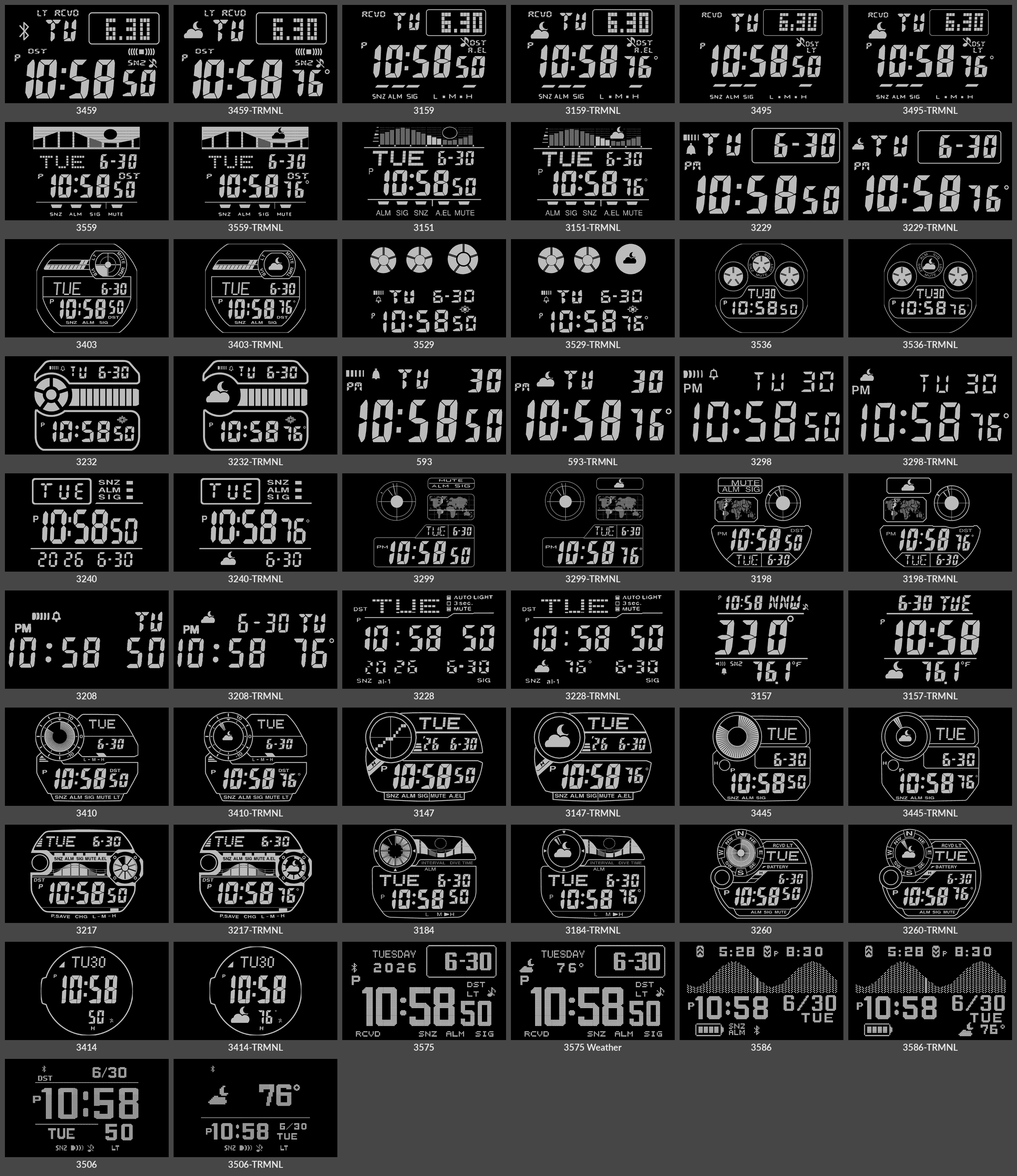
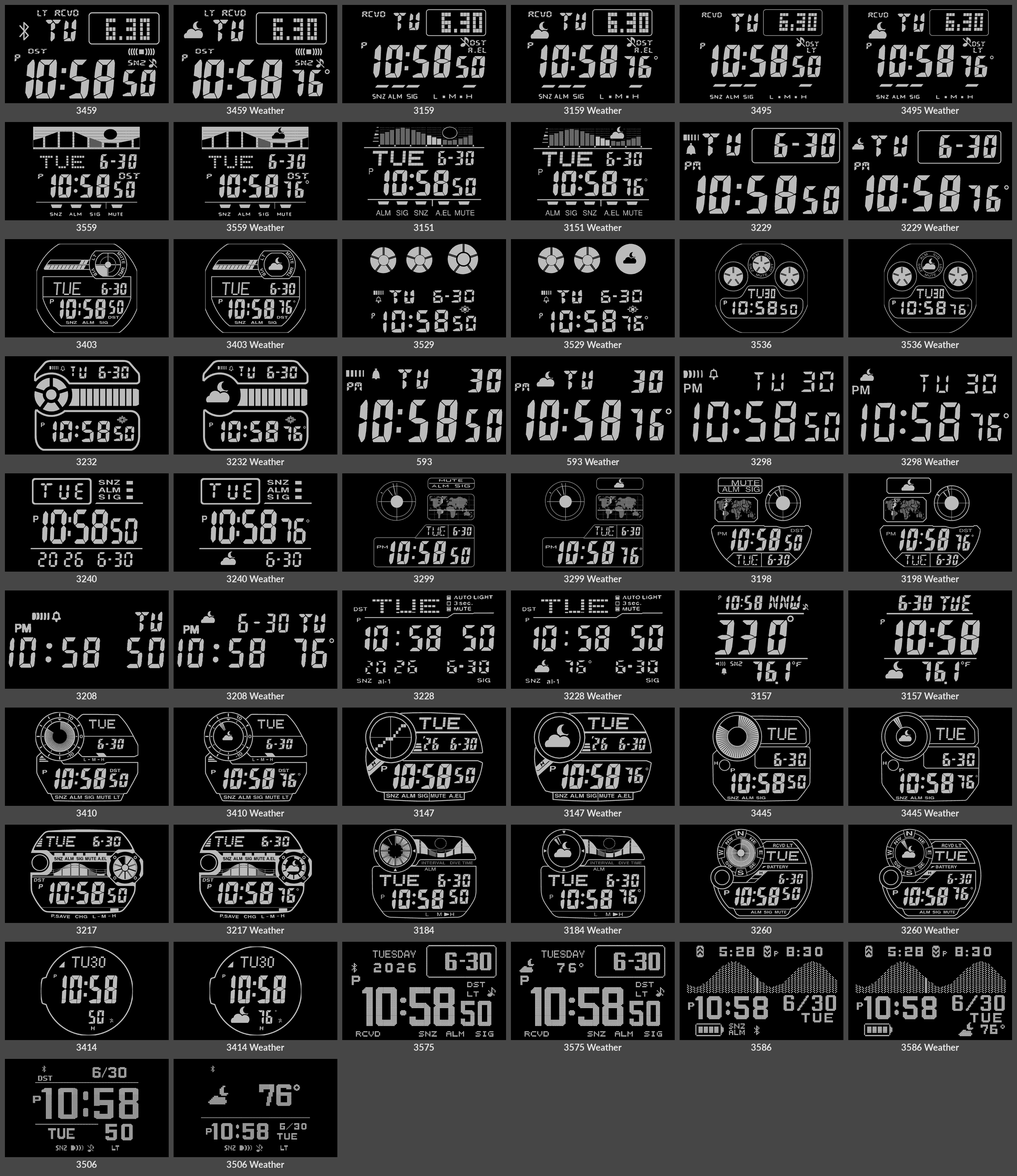
Watch faces by module, Weather as a switch
Claude-Session: https://claude.ai/code/session_01WrLPH9CSGwuJCbw1xzJHza

diff --git a/index.html b/index.html
@@ -34,11 +34,11 @@ small { display: block; color: var(--muted); }
 <main>
 <h1>LCD Watch</h1>
 <p>Every face of the LCD Watch plugin for TRMNL, by its name in the Watch Face setting. Fully digital watches only,
-no analog-digital ones. Switch Weather on to see each watch's
-weather face (TRMNL), which adds the weather in the watch's own style.</p>
+no analog-digital ones. Switch Weather on to see each watch with the plugin's Weather setting on: the weather in
+the watch's own style.</p>
 <figure class="sheet" data-lcd="all-faces.png" data-inv="all-faces-inverted.png"><img class="all" src="all-faces.png" alt="Every LCD Watch face" width="2484" height="2872"></figure>
 <div class="switches"><div class="toggle" role="group" aria-label="Display"><button type="button" data-key="display" data-value="lcd">LCD</button><button type="button" data-key="display" data-value="inv">Inverted</button></div><div class="toggle" role="group" aria-label="Weather"><button type="button" data-key="weather" data-value="off">No weather</button><button type="button" data-key="weather" data-value="on">Weather</button></div></div>
-<div class="grid"><figure data-lcd="screens/watch-3459.png" data-inv="screens/watch-3459-inverted.png" data-label="3459 · Modern square (2018)" data-wlcd="screens/watch-3459-TRMNL.png" data-winv="screens/watch-3459-TRMNL-inverted.png" data-wlabel="3459-TRMNL · Modern square with weather"><img src="screens/watch-3459.png" alt="3459 · Modern square (2018)" loading="lazy" width="400" height="240"><figcaption><span class="label">3459 · Modern square (2018)</span></figcaption></figure><figure data-lcd="screens/watch-3159.png" data-inv="screens/watch-3159-inverted.png" data-label="3159 · Solar square (2012)" data-wlcd="screens/watch-3159-TRMNL.png" data-winv="screens/watch-3159-TRMNL-inverted.png" data-wlabel="3159-TRMNL · Solar square with weather"><img src="screens/watch-3159.png" alt="3159 · Solar square (2012)" loading="lazy" width="400" height="240"><figcaption><span class="label">3159 · Solar square (2012)</span></figcaption></figure><figure data-lcd="screens/watch-3495.png" data-inv="screens/watch-3495-inverted.png" data-label="3495 · Solar square, six languages (2021)" data-wlcd="screens/watch-3495-TRMNL.png" data-winv="screens/watch-3495-TRMNL-inverted.png" data-wlabel="3495-TRMNL · Solar square, six languages, with weather"><img src="screens/watch-3495.png" alt="3495 · Solar square, six languages (2021)" loading="lazy" width="400" height="240"><figcaption><span class="label">3495 · Solar square, six languages (2021)</span></figcaption></figure><figure data-lcd="screens/watch-3559.png" data-inv="screens/watch-3559-inverted.png" data-label="3559 · Surf, tide and moon (2023)" data-wlcd="screens/watch-3559-TRMNL.png" data-winv="screens/watch-3559-TRMNL-inverted.png" data-wlabel="3559-TRMNL · Surf, tide and weather"><img src="screens/watch-3559.png" alt="3559 · Surf, tide and moon (2023)" loading="lazy" width="400" height="240"><figcaption><span class="label">3559 · Surf, tide and moon (2023)</span></figcaption></figure><figure data-lcd="screens/watch-3151.png" data-inv="screens/watch-3151-inverted.png" data-label="3151 · Surf, tide graph and Moon (2008)" data-wlcd="screens/watch-3151-TRMNL.png" data-winv="screens/watch-3151-TRMNL-inverted.png" data-wlabel="3151-TRMNL · Surf, tide graph and weather"><img src="screens/watch-3151.png" alt="3151 · Surf, tide graph and Moon (2008)" loading="lazy" width="400" height="240"><figcaption><span class="label">3151 · Surf, tide graph and Moon (2008)</span></figcaption></figure><figure data-lcd="screens/watch-3229.png" data-inv="screens/watch-3229-inverted.png" data-label="3229 · Classic square (2010)" data-wlcd="screens/watch-3229-TRMNL.png" data-winv="screens/watch-3229-TRMNL-inverted.png" data-wlabel="3229-TRMNL · Classic square with weather"><img src="screens/watch-3229.png" alt="3229 · Classic square (2010)" loading="lazy" width="400" height="240"><figcaption><span class="label">3229 · Classic square (2010)</span></figcaption></figure><figure data-lcd="screens/watch-3403.png" data-inv="screens/watch-3403-inverted.png" data-label="3403 · XL square, bar graph and dial (2012)" data-wlcd="screens/watch-3403-TRMNL.png" data-winv="screens/watch-3403-TRMNL-inverted.png" data-wlabel="3403-TRMNL · XL square with weather in the dial"><img src="screens/watch-3403.png" alt="3403 · XL square, bar graph and dial (2012)" loading="lazy" width="400" height="240"><figcaption><span class="label">3403 · XL square, bar graph and dial (2012)</span></figcaption></figure><figure data-lcd="screens/watch-3529.png" data-inv="screens/watch-3529-inverted.png" data-label="3529 · Round, three eyes (2023)" data-wlcd="screens/watch-3529-TRMNL.png" data-winv="screens/watch-3529-TRMNL-inverted.png" data-wlabel="3529-TRMNL · Round, three eyes, with weather"><img src="screens/watch-3529.png" alt="3529 · Round, three eyes (2023)" loading="lazy" width="400" height="240"><figcaption><span class="label">3529 · Round, three eyes (2023)</span></figcaption></figure><figure data-lcd="screens/watch-3536.png" data-inv="screens/watch-3536-inverted.png" data-label="3536 · Square, three eyes (2023)" data-wlcd="screens/watch-3536-TRMNL.png" data-winv="screens/watch-3536-TRMNL-inverted.png" data-wlabel="3536-TRMNL · Square, three eyes, with weather"><img src="screens/watch-3536.png" alt="3536 · Square, three eyes (2023)" loading="lazy" width="400" height="240"><figcaption><span class="label">3536 · Square, three eyes (2023)</span></figcaption></figure><figure data-lcd="screens/watch-3232.png" data-inv="screens/watch-3232-inverted.png" data-label="3232 · Round, eye and bar graph (2010)" data-wlcd="screens/watch-3232-TRMNL.png" data-winv="screens/watch-3232-TRMNL-inverted.png" data-wlabel="3232-TRMNL · Round, eye and bar graph, with weather"><img src="screens/watch-3232.png" alt="3232 · Round, eye and bar graph (2010)" loading="lazy" width="400" height="240"><figcaption><span class="label">3232 · Round, eye and bar graph (2010)</span></figcaption></figure><figure data-lcd="screens/watch-593.png" data-inv="screens/watch-593-inverted.png" data-label="593 · Slim retro (1989)" data-wlcd="screens/watch-593-TRMNL.png" data-winv="screens/watch-593-TRMNL-inverted.png" data-wlabel="593-TRMNL · Slim retro with weather"><img src="screens/watch-593.png" alt="593 · Slim retro (1989)" loading="lazy" width="400" height="240"><figcaption><span class="label">593 · Slim retro (1989)</span></figcaption></figure><figure data-lcd="screens/watch-3298.png" data-inv="screens/watch-3298-inverted.png" data-label="3298 · Retro steel square (2012)" data-wlcd="screens/watch-3298-TRMNL.png" data-winv="screens/watch-3298-TRMNL-inverted.png" data-wlabel="3298-TRMNL · Retro steel square with weather"><img src="screens/watch-3298.png" alt="3298 · Retro steel square (2012)" loading="lazy" width="400" height="240"><figcaption><span class="label">3298 · Retro steel square (2012)</span></figcaption></figure><figure data-lcd="screens/watch-3240.png" data-inv="screens/watch-3240-inverted.png" data-label="3240 · Sport square, 10-year battery (2011)" data-wlcd="screens/watch-3240-TRMNL.png" data-winv="screens/watch-3240-TRMNL-inverted.png" data-wlabel="3240-TRMNL · Sport square with weather"><img src="screens/watch-3240.png" alt="3240 · Sport square, 10-year battery (2011)" loading="lazy" width="400" height="240"><figcaption><span class="label">3240 · Sport square, 10-year battery (2011)</span></figcaption></figure><figure data-lcd="screens/watch-3299.png" data-inv="screens/watch-3299-inverted.png" data-label="3299 · World time with map (2012)" data-wlcd="screens/watch-3299-TRMNL.png" data-winv="screens/watch-3299-TRMNL-inverted.png" data-wlabel="3299-TRMNL · World time with map and weather"><img src="screens/watch-3299.png" alt="3299 · World time with map (2012)" loading="lazy" width="400" height="240"><figcaption><span class="label">3299 · World time with map (2012)</span></figcaption></figure><figure data-lcd="screens/watch-3198.png" data-inv="screens/watch-3198-inverted.png" data-label="3198 · World time with map, round (2012)" data-wlcd="screens/watch-3198-TRMNL.png" data-winv="screens/watch-3198-TRMNL-inverted.png" data-wlabel="3198-TRMNL · World time with map, round, with weather"><img src="screens/watch-3198.png" alt="3198 · World time with map, round (2012)" loading="lazy" width="400" height="240"><figcaption><span class="label">3198 · World time with map, round (2012)</span></figcaption></figure><figure data-lcd="screens/watch-3208.png" data-inv="screens/watch-3208-inverted.png" data-label="3208 · Calculator (1988)" data-wlcd="screens/watch-3208-TRMNL.png" data-winv="screens/watch-3208-TRMNL-inverted.png" data-wlabel="3208-TRMNL · Calculator with weather"><img src="screens/watch-3208.png" alt="3208 · Calculator (1988)" loading="lazy" width="400" height="240"><figcaption><span class="label">3208 · Calculator (1988)</span></figcaption></figure><figure data-lcd="screens/watch-3228.png" data-inv="screens/watch-3228-inverted.png" data-label="3228 · Databank calculator (2005)" data-wlcd="screens/watch-3228-TRMNL.png" data-winv="screens/watch-3228-TRMNL-inverted.png" data-wlabel="3228-TRMNL · Databank calculator with weather"><img src="screens/watch-3228.png" alt="3228 · Databank calculator (2005)" loading="lazy" width="400" height="240"><figcaption><span class="label">3228 · Databank calculator (2005)</span></figcaption></figure><figure data-lcd="screens/watch-3157.png" data-inv="screens/watch-3157-inverted.png" data-label="3157 · Outdoor, compass and thermometer (2008)" data-wlcd="screens/watch-3157-TRMNL.png" data-winv="screens/watch-3157-TRMNL-inverted.png" data-wlabel="3157-TRMNL · Outdoor, date, time and weather"><img src="screens/watch-3157.png" alt="3157 · Outdoor, compass and thermometer (2008)" loading="lazy" width="400" height="240"><figcaption><span class="label">3157 · Outdoor, compass and thermometer (2008)</span></figcaption></figure><figure data-lcd="screens/watch-3410.png" data-inv="screens/watch-3410-inverted.png" data-label="3410 · Triple sensor, graphic dial (2013)" data-wlcd="screens/watch-3410-TRMNL.png" data-winv="screens/watch-3410-TRMNL-inverted.png" data-wlabel="3410-TRMNL · Triple sensor, weather in the dial"><img src="screens/watch-3410.png" alt="3410 · Triple sensor, graphic dial (2013)" loading="lazy" width="400" height="240"><figcaption><span class="label">3410 · Triple sensor, graphic dial (2013)</span></figcaption></figure><figure data-lcd="screens/watch-3147.png" data-inv="screens/watch-3147-inverted.png" data-label="3147 · Barometer, pressure graph (2008)" data-wlcd="screens/watch-3147-TRMNL.png" data-winv="screens/watch-3147-TRMNL-inverted.png" data-wlabel="3147-TRMNL · Barometer, weather in the graph window"><img src="screens/watch-3147.png" alt="3147 · Barometer, pressure graph (2008)" loading="lazy" width="400" height="240"><figcaption><span class="label">3147 · Barometer, pressure graph (2008)</span></figcaption></figure><figure data-lcd="screens/watch-3445.png" data-inv="screens/watch-3445-inverted.png" data-label="3445 · Diver, graphic dial and Moon (2016)" data-wlcd="screens/watch-3445-TRMNL.png" data-winv="screens/watch-3445-TRMNL-inverted.png" data-wlabel="3445-TRMNL · Diver, weather in the dial"><img src="screens/watch-3445.png" alt="3445 · Diver, graphic dial and Moon (2016)" loading="lazy" width="400" height="240"><figcaption><span class="label">3445 · Diver, graphic dial and Moon (2016)</span></figcaption></figure><figure data-lcd="screens/watch-3217.png" data-inv="screens/watch-3217-inverted.png" data-label="3217 · Surf, tide graph and Moon (2010)" data-wlcd="screens/watch-3217-TRMNL.png" data-winv="screens/watch-3217-TRMNL-inverted.png" data-wlabel="3217-TRMNL · Surf, tide graph and weather"><img src="screens/watch-3217.png" alt="3217 · Surf, tide graph and Moon (2010)" loading="lazy" width="400" height="240"><figcaption><span class="label">3217 · Surf, tide graph and Moon (2010)</span></figcaption></figure><figure data-lcd="screens/watch-3184.png" data-inv="screens/watch-3184-inverted.png" data-label="3184 · Diver, tide graph and Moon (2009)" data-wlcd="screens/watch-3184-TRMNL.png" data-winv="screens/watch-3184-TRMNL-inverted.png" data-wlabel="3184-TRMNL · Diver, tide graph and weather"><img src="screens/watch-3184.png" alt="3184 · Diver, tide graph and Moon (2009)" loading="lazy" width="400" height="240"><figcaption><span class="label">3184 · Diver, tide graph and Moon (2009)</span></figcaption></figure><figure data-lcd="screens/watch-3260.png" data-inv="screens/watch-3260-inverted.png" data-label="3260 · Mud-resistant square, compass bezel and Moon (2011)" data-wlcd="screens/watch-3260-TRMNL.png" data-winv="screens/watch-3260-TRMNL-inverted.png" data-wlabel="3260-TRMNL · Mud-resistant square, weather in the graphic area"><img src="screens/watch-3260.png" alt="3260 · Mud-resistant square, compass bezel and Moon (2011)" loading="lazy" width="400" height="240"><figcaption><span class="label">3260 · Mud-resistant square, compass bezel and Moon (2011)</span></figcaption></figure><figure data-lcd="screens/watch-3414.png" data-inv="screens/watch-3414-inverted.png" data-label="3414 · Triple sensor, round (2013)" data-wlcd="screens/watch-3414-TRMNL.png" data-winv="screens/watch-3414-TRMNL-inverted.png" data-wlabel="3414-TRMNL · Triple sensor, round, with weather"><img src="screens/watch-3414.png" alt="3414 · Triple sensor, round (2013)" loading="lazy" width="400" height="240"><figcaption><span class="label">3414 · Triple sensor, round (2013)</span></figcaption></figure><figure data-lcd="screens/watch-3575.png" data-inv="screens/watch-3575-inverted.png" data-label="3575 / 3578 · Dot matrix (2025)" data-wlcd="screens/type-c-weather.png" data-winv="screens/type-c-weather-inverted.png" data-wlabel="3575 / 3578 · Dot matrix (2025), Weather on"><img src="screens/watch-3575.png" alt="3575 / 3578 · Dot matrix (2025)" loading="lazy" width="400" height="240"><figcaption><span class="label">3575 / 3578 · Dot matrix (2025)</span></figcaption></figure><figure data-lcd="screens/watch-3586.png" data-inv="screens/watch-3586-inverted.png" data-label="3586 · Dot matrix, tide and sun (2026)" data-wlcd="screens/watch-3586-TRMNL.png" data-winv="screens/watch-3586-TRMNL-inverted.png" data-wlabel="3586-TRMNL · Dot matrix, tide and weather"><img src="screens/watch-3586.png" alt="3586 · Dot matrix, tide and sun (2026)" loading="lazy" width="400" height="240"><figcaption><span class="label">3586 · Dot matrix, tide and sun (2026)</span></figcaption></figure><figure data-lcd="screens/watch-3506.png" data-inv="screens/watch-3506-inverted.png" data-label="3506 · Dot matrix, sport square (2021)" data-wlcd="screens/watch-3506-TRMNL.png" data-winv="screens/watch-3506-TRMNL-inverted.png" data-wlabel="3506-TRMNL · Dot matrix, sport square with weather"><img src="screens/watch-3506.png" alt="3506 · Dot matrix, sport square (2021)" loading="lazy" width="400" height="240"><figcaption><span class="label">3506 · Dot matrix, sport square (2021)</span></figcaption></figure></div>
+<div class="grid"><figure data-lcd="screens/watch-3459.png" data-inv="screens/watch-3459-inverted.png" data-label="3459 · Modern square (2018)" data-wlcd="screens/watch-3459-TRMNL.png" data-winv="screens/watch-3459-TRMNL-inverted.png" data-wlabel="3459 · Modern square (2018), Weather on"><img src="screens/watch-3459.png" alt="3459 · Modern square (2018)" loading="lazy" width="400" height="240"><figcaption><span class="label">3459 · Modern square (2018)</span></figcaption></figure><figure data-lcd="screens/watch-3159.png" data-inv="screens/watch-3159-inverted.png" data-label="3159 · Solar square (2012)" data-wlcd="screens/watch-3159-TRMNL.png" data-winv="screens/watch-3159-TRMNL-inverted.png" data-wlabel="3159 · Solar square (2012), Weather on"><img src="screens/watch-3159.png" alt="3159 · Solar square (2012)" loading="lazy" width="400" height="240"><figcaption><span class="label">3159 · Solar square (2012)</span></figcaption></figure><figure data-lcd="screens/watch-3495.png" data-inv="screens/watch-3495-inverted.png" data-label="3495 · Solar square, six languages (2021)" data-wlcd="screens/watch-3495-TRMNL.png" data-winv="screens/watch-3495-TRMNL-inverted.png" data-wlabel="3495 · Solar square, six languages (2021), Weather on"><img src="screens/watch-3495.png" alt="3495 · Solar square, six languages (2021)" loading="lazy" width="400" height="240"><figcaption><span class="label">3495 · Solar square, six languages (2021)</span></figcaption></figure><figure data-lcd="screens/watch-3559.png" data-inv="screens/watch-3559-inverted.png" data-label="3559 · Surf, tide and moon (2023)" data-wlcd="screens/watch-3559-TRMNL.png" data-winv="screens/watch-3559-TRMNL-inverted.png" data-wlabel="3559 · Surf, tide and moon (2023), Weather on"><img src="screens/watch-3559.png" alt="3559 · Surf, tide and moon (2023)" loading="lazy" width="400" height="240"><figcaption><span class="label">3559 · Surf, tide and moon (2023)</span></figcaption></figure><figure data-lcd="screens/watch-3151.png" data-inv="screens/watch-3151-inverted.png" data-label="3151 · Surf, tide graph and Moon (2008)" data-wlcd="screens/watch-3151-TRMNL.png" data-winv="screens/watch-3151-TRMNL-inverted.png" data-wlabel="3151 · Surf, tide graph and Moon (2008), Weather on"><img src="screens/watch-3151.png" alt="3151 · Surf, tide graph and Moon (2008)" loading="lazy" width="400" height="240"><figcaption><span class="label">3151 · Surf, tide graph and Moon (2008)</span></figcaption></figure><figure data-lcd="screens/watch-3229.png" data-inv="screens/watch-3229-inverted.png" data-label="3229 · Classic square (2010)" data-wlcd="screens/watch-3229-TRMNL.png" data-winv="screens/watch-3229-TRMNL-inverted.png" data-wlabel="3229 · Classic square (2010), Weather on"><img src="screens/watch-3229.png" alt="3229 · Classic square (2010)" loading="lazy" width="400" height="240"><figcaption><span class="label">3229 · Classic square (2010)</span></figcaption></figure><figure data-lcd="screens/watch-3403.png" data-inv="screens/watch-3403-inverted.png" data-label="3403 · XL square, bar graph and dial (2012)" data-wlcd="screens/watch-3403-TRMNL.png" data-winv="screens/watch-3403-TRMNL-inverted.png" data-wlabel="3403 · XL square, bar graph and dial (2012), Weather on"><img src="screens/watch-3403.png" alt="3403 · XL square, bar graph and dial (2012)" loading="lazy" width="400" height="240"><figcaption><span class="label">3403 · XL square, bar graph and dial (2012)</span></figcaption></figure><figure data-lcd="screens/watch-3529.png" data-inv="screens/watch-3529-inverted.png" data-label="3529 · Round, three eyes (2023)" data-wlcd="screens/watch-3529-TRMNL.png" data-winv="screens/watch-3529-TRMNL-inverted.png" data-wlabel="3529 · Round, three eyes (2023), Weather on"><img src="screens/watch-3529.png" alt="3529 · Round, three eyes (2023)" loading="lazy" width="400" height="240"><figcaption><span class="label">3529 · Round, three eyes (2023)</span></figcaption></figure><figure data-lcd="screens/watch-3536.png" data-inv="screens/watch-3536-inverted.png" data-label="3536 · Square, three eyes (2023)" data-wlcd="screens/watch-3536-TRMNL.png" data-winv="screens/watch-3536-TRMNL-inverted.png" data-wlabel="3536 · Square, three eyes (2023), Weather on"><img src="screens/watch-3536.png" alt="3536 · Square, three eyes (2023)" loading="lazy" width="400" height="240"><figcaption><span class="label">3536 · Square, three eyes (2023)</span></figcaption></figure><figure data-lcd="screens/watch-3232.png" data-inv="screens/watch-3232-inverted.png" data-label="3232 · Round, eye and bar graph (2010)" data-wlcd="screens/watch-3232-TRMNL.png" data-winv="screens/watch-3232-TRMNL-inverted.png" data-wlabel="3232 · Round, eye and bar graph (2010), Weather on"><img src="screens/watch-3232.png" alt="3232 · Round, eye and bar graph (2010)" loading="lazy" width="400" height="240"><figcaption><span class="label">3232 · Round, eye and bar graph (2010)</span></figcaption></figure><figure data-lcd="screens/watch-593.png" data-inv="screens/watch-593-inverted.png" data-label="593 · Slim retro (1989)" data-wlcd="screens/watch-593-TRMNL.png" data-winv="screens/watch-593-TRMNL-inverted.png" data-wlabel="593 · Slim retro (1989), Weather on"><img src="screens/watch-593.png" alt="593 · Slim retro (1989)" loading="lazy" width="400" height="240"><figcaption><span class="label">593 · Slim retro (1989)</span></figcaption></figure><figure data-lcd="screens/watch-3298.png" data-inv="screens/watch-3298-inverted.png" data-label="3298 · Retro steel square (2012)" data-wlcd="screens/watch-3298-TRMNL.png" data-winv="screens/watch-3298-TRMNL-inverted.png" data-wlabel="3298 · Retro steel square (2012), Weather on"><img src="screens/watch-3298.png" alt="3298 · Retro steel square (2012)" loading="lazy" width="400" height="240"><figcaption><span class="label">3298 · Retro steel square (2012)</span></figcaption></figure><figure data-lcd="screens/watch-3240.png" data-inv="screens/watch-3240-inverted.png" data-label="3240 · Sport square, 10-year battery (2011)" data-wlcd="screens/watch-3240-TRMNL.png" data-winv="screens/watch-3240-TRMNL-inverted.png" data-wlabel="3240 · Sport square, 10-year battery (2011), Weather on"><img src="screens/watch-3240.png" alt="3240 · Sport square, 10-year battery (2011)" loading="lazy" width="400" height="240"><figcaption><span class="label">3240 · Sport square, 10-year battery (2011)</span></figcaption></figure><figure data-lcd="screens/watch-3299.png" data-inv="screens/watch-3299-inverted.png" data-label="3299 · World time with map (2012)" data-wlcd="screens/watch-3299-TRMNL.png" data-winv="screens/watch-3299-TRMNL-inverted.png" data-wlabel="3299 · World time with map (2012), Weather on"><img src="screens/watch-3299.png" alt="3299 · World time with map (2012)" loading="lazy" width="400" height="240"><figcaption><span class="label">3299 · World time with map (2012)</span></figcaption></figure><figure data-lcd="screens/watch-3198.png" data-inv="screens/watch-3198-inverted.png" data-label="3198 · World time with map, round (2012)" data-wlcd="screens/watch-3198-TRMNL.png" data-winv="screens/watch-3198-TRMNL-inverted.png" data-wlabel="3198 · World time with map, round (2012), Weather on"><img src="screens/watch-3198.png" alt="3198 · World time with map, round (2012)" loading="lazy" width="400" height="240"><figcaption><span class="label">3198 · World time with map, round (2012)</span></figcaption></figure><figure data-lcd="screens/watch-3208.png" data-inv="screens/watch-3208-inverted.png" data-label="3208 · Calculator (1988)" data-wlcd="screens/watch-3208-TRMNL.png" data-winv="screens/watch-3208-TRMNL-inverted.png" data-wlabel="3208 · Calculator (1988), Weather on"><img src="screens/watch-3208.png" alt="3208 · Calculator (1988)" loading="lazy" width="400" height="240"><figcaption><span class="label">3208 · Calculator (1988)</span></figcaption></figure><figure data-lcd="screens/watch-3228.png" data-inv="screens/watch-3228-inverted.png" data-label="3228 · Databank calculator (2005)" data-wlcd="screens/watch-3228-TRMNL.png" data-winv="screens/watch-3228-TRMNL-inverted.png" data-wlabel="3228 · Databank calculator (2005), Weather on"><img src="screens/watch-3228.png" alt="3228 · Databank calculator (2005)" loading="lazy" width="400" height="240"><figcaption><span class="label">3228 · Databank calculator (2005)</span></figcaption></figure><figure data-lcd="screens/watch-3157.png" data-inv="screens/watch-3157-inverted.png" data-label="3157 · Outdoor, compass and thermometer (2008)" data-wlcd="screens/watch-3157-TRMNL.png" data-winv="screens/watch-3157-TRMNL-inverted.png" data-wlabel="3157 · Outdoor, compass and thermometer (2008), Weather on"><img src="screens/watch-3157.png" alt="3157 · Outdoor, compass and thermometer (2008)" loading="lazy" width="400" height="240"><figcaption><span class="label">3157 · Outdoor, compass and thermometer (2008)</span></figcaption></figure><figure data-lcd="screens/watch-3410.png" data-inv="screens/watch-3410-inverted.png" data-label="3410 · Triple sensor, graphic dial (2013)" data-wlcd="screens/watch-3410-TRMNL.png" data-winv="screens/watch-3410-TRMNL-inverted.png" data-wlabel="3410 · Triple sensor, graphic dial (2013), Weather on"><img src="screens/watch-3410.png" alt="3410 · Triple sensor, graphic dial (2013)" loading="lazy" width="400" height="240"><figcaption><span class="label">3410 · Triple sensor, graphic dial (2013)</span></figcaption></figure><figure data-lcd="screens/watch-3147.png" data-inv="screens/watch-3147-inverted.png" data-label="3147 · Barometer, pressure graph (2008)" data-wlcd="screens/watch-3147-TRMNL.png" data-winv="screens/watch-3147-TRMNL-inverted.png" data-wlabel="3147 · Barometer, pressure graph (2008), Weather on"><img src="screens/watch-3147.png" alt="3147 · Barometer, pressure graph (2008)" loading="lazy" width="400" height="240"><figcaption><span class="label">3147 · Barometer, pressure graph (2008)</span></figcaption></figure><figure data-lcd="screens/watch-3445.png" data-inv="screens/watch-3445-inverted.png" data-label="3445 · Diver, graphic dial and Moon (2016)" data-wlcd="screens/watch-3445-TRMNL.png" data-winv="screens/watch-3445-TRMNL-inverted.png" data-wlabel="3445 · Diver, graphic dial and Moon (2016), Weather on"><img src="screens/watch-3445.png" alt="3445 · Diver, graphic dial and Moon (2016)" loading="lazy" width="400" height="240"><figcaption><span class="label">3445 · Diver, graphic dial and Moon (2016)</span></figcaption></figure><figure data-lcd="screens/watch-3217.png" data-inv="screens/watch-3217-inverted.png" data-label="3217 · Surf, tide graph and Moon (2010)" data-wlcd="screens/watch-3217-TRMNL.png" data-winv="screens/watch-3217-TRMNL-inverted.png" data-wlabel="3217 · Surf, tide graph and Moon (2010), Weather on"><img src="screens/watch-3217.png" alt="3217 · Surf, tide graph and Moon (2010)" loading="lazy" width="400" height="240"><figcaption><span class="label">3217 · Surf, tide graph and Moon (2010)</span></figcaption></figure><figure data-lcd="screens/watch-3184.png" data-inv="screens/watch-3184-inverted.png" data-label="3184 · Diver, tide graph and Moon (2009)" data-wlcd="screens/watch-3184-TRMNL.png" data-winv="screens/watch-3184-TRMNL-inverted.png" data-wlabel="3184 · Diver, tide graph and Moon (2009), Weather on"><img src="screens/watch-3184.png" alt="3184 · Diver, tide graph and Moon (2009)" loading="lazy" width="400" height="240"><figcaption><span class="label">3184 · Diver, tide graph and Moon (2009)</span></figcaption></figure><figure data-lcd="screens/watch-3260.png" data-inv="screens/watch-3260-inverted.png" data-label="3260 · Mud-resistant square, compass bezel and Moon (2011)" data-wlcd="screens/watch-3260-TRMNL.png" data-winv="screens/watch-3260-TRMNL-inverted.png" data-wlabel="3260 · Mud-resistant square, compass bezel and Moon (2011), Weather on"><img src="screens/watch-3260.png" alt="3260 · Mud-resistant square, compass bezel and Moon (2011)" loading="lazy" width="400" height="240"><figcaption><span class="label">3260 · Mud-resistant square, compass bezel and Moon (2011)</span></figcaption></figure><figure data-lcd="screens/watch-3414.png" data-inv="screens/watch-3414-inverted.png" data-label="3414 · Triple sensor, round (2013)" data-wlcd="screens/watch-3414-TRMNL.png" data-winv="screens/watch-3414-TRMNL-inverted.png" data-wlabel="3414 · Triple sensor, round (2013), Weather on"><img src="screens/watch-3414.png" alt="3414 · Triple sensor, round (2013)" loading="lazy" width="400" height="240"><figcaption><span class="label">3414 · Triple sensor, round (2013)</span></figcaption></figure><figure data-lcd="screens/watch-3575.png" data-inv="screens/watch-3575-inverted.png" data-label="3575 / 3578 · Dot matrix (2025)" data-wlcd="screens/type-c-weather.png" data-winv="screens/type-c-weather-inverted.png" data-wlabel="3575 / 3578 · Dot matrix (2025), Weather on"><img src="screens/watch-3575.png" alt="3575 / 3578 · Dot matrix (2025)" loading="lazy" width="400" height="240"><figcaption><span class="label">3575 / 3578 · Dot matrix (2025)</span></figcaption></figure><figure data-lcd="screens/watch-3586.png" data-inv="screens/watch-3586-inverted.png" data-label="3586 · Dot matrix, tide and sun (2026)" data-wlcd="screens/watch-3586-TRMNL.png" data-winv="screens/watch-3586-TRMNL-inverted.png" data-wlabel="3586 · Dot matrix, tide and sun (2026), Weather on"><img src="screens/watch-3586.png" alt="3586 · Dot matrix, tide and sun (2026)" loading="lazy" width="400" height="240"><figcaption><span class="label">3586 · Dot matrix, tide and sun (2026)</span></figcaption></figure><figure data-lcd="screens/watch-3506.png" data-inv="screens/watch-3506-inverted.png" data-label="3506 · Dot matrix, sport square (2021)" data-wlcd="screens/watch-3506-TRMNL.png" data-winv="screens/watch-3506-TRMNL-inverted.png" data-wlabel="3506 · Dot matrix, sport square (2021), Weather on"><img src="screens/watch-3506.png" alt="3506 · Dot matrix, sport square (2021)" loading="lazy" width="400" height="240"><figcaption><span class="label">3506 · Dot matrix, sport square (2021)</span></figcaption></figure></div>
 <h2>Display</h2>
 <p>How the screen is drawn, on any face.</p>
 <div class="grid"><figure data-lcd="screens/display-lcd.png" data-inv="screens/display-lcd.png" data-label="LCD (light gray)" data-wlcd="screens/display-lcd-weather.png" data-winv="screens/display-lcd-weather.png" data-wlabel="LCD (light gray), with weather"><img src="screens/display-lcd.png" alt="LCD (light gray)" loading="lazy" width="400" height="240"><figcaption><span class="label">LCD (light gray)</span></figcaption></figure><figure data-lcd="screens/display-paper.png" data-inv="screens/display-paper.png" data-label="White" data-wlcd="screens/display-paper-weather.png" data-winv="screens/display-paper-weather.png" data-wlabel="White, with weather"><img src="screens/display-paper.png" alt="White" loading="lazy" width="400" height="240"><figcaption><span class="label">White</span></figcaption></figure><figure data-lcd="screens/display-inverted.png" data-inv="screens/display-inverted.png" data-label="Dark, gray digits" data-wlcd="screens/display-inverted-weather.png" data-winv="screens/display-inverted-weather.png" data-wlabel="Dark, gray digits, with weather"><img src="screens/display-inverted.png" alt="Dark, gray digits" loading="lazy" width="400" height="240"><figcaption><span class="label">Dark, gray digits</span></figcaption></figure><figure data-lcd="screens/display-inverted_white.png" data-inv="screens/display-inverted_white.png" data-label="Dark, white digits" data-wlcd="screens/display-inverted_white-weather.png" data-winv="screens/display-inverted_white-weather.png" data-wlabel="Dark, white digits, with weather"><img src="screens/display-inverted_white.png" alt="Dark, white digits" loading="lazy" width="400" height="240"><figcaption><span class="label">Dark, white digits</span></figcaption></figure></div>
